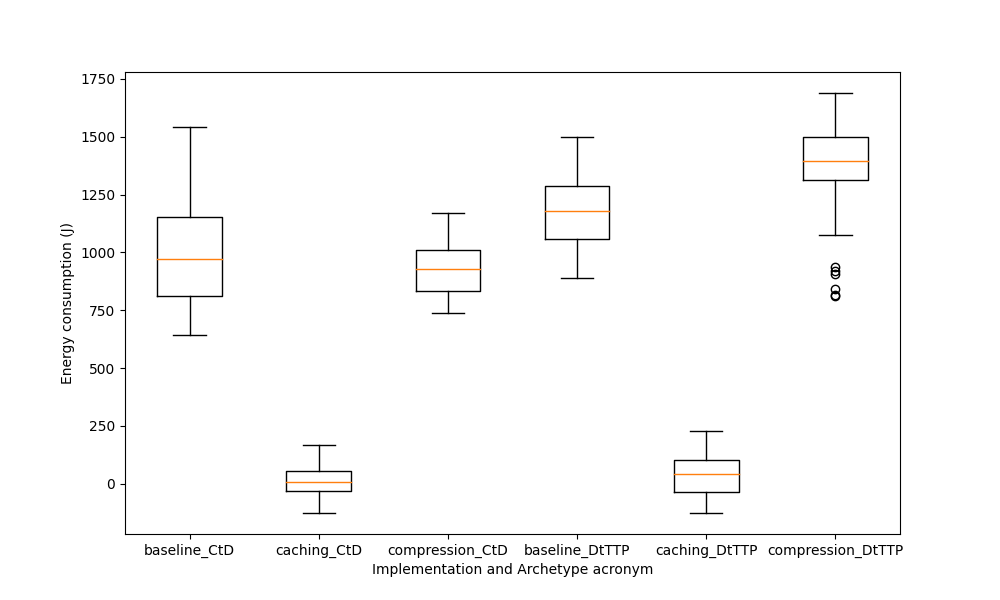
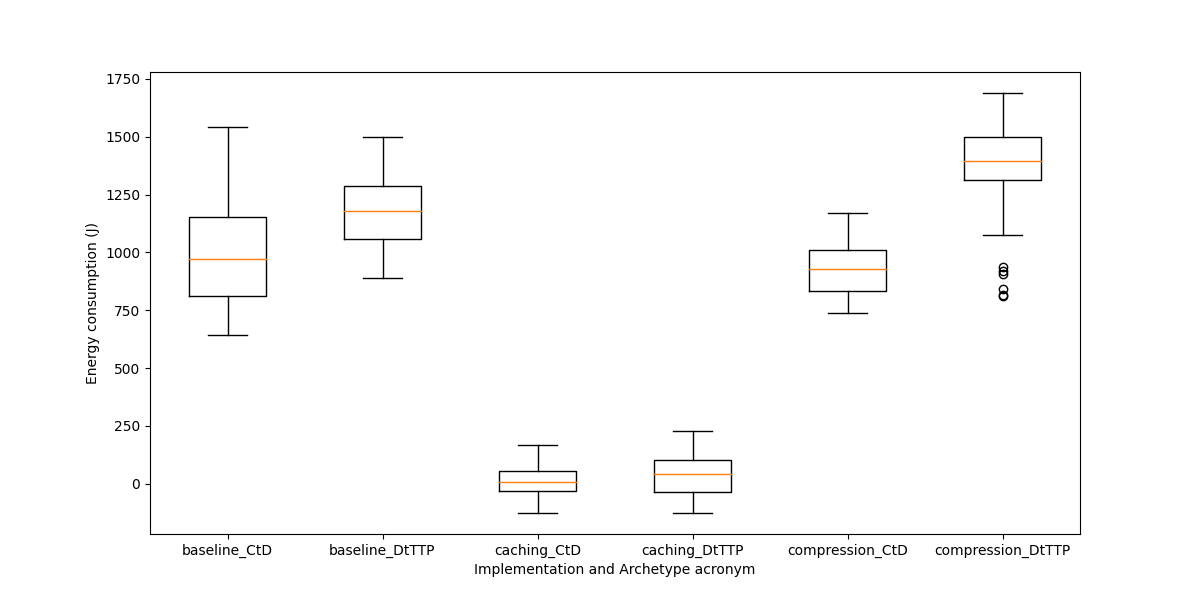
refactor: show implementations next to each other for box plot when all is selected

diff --git a/energy-efficiency/experiments/generate_box_plot.py b/energy-efficiency/experiments/generate_box_plot.py
@@ -9,8 +9,12 @@ def generate_box_plot(data_dict, archetype: str, figsize):
     data = [df["total_energy_difference"].values for df in data_dict.values()]
     labels = list(data_dict.keys())
 
+    # Modify labels if archetype is "all"
+    if archetype == "all":
+        labels = [label.replace("ComputeToData", "CtD").replace("DataThroughTTP", "DtTTP") for label in labels]
+        figsize = (12, 6)  # Wider figure size for "all" option
+
     # Generate box plot for the column
-    # Set the x and y sizes
     plt.figure(figsize=figsize)
     plt.boxplot(data, labels=labels)
     # No title is set now, since it is added in thesis directly
@@ -36,16 +40,17 @@ if __name__ == "__main__":
 
     # If all is selected, use all archetypes and set different figsize
     archetypes = ["ComputeToData", "DataThroughTTP"] if args.archetype == "all" else [args.archetype]
-    figsize = (10, 6) if args.archetype == "all" else (6, 6)
+    figsize = (12, 6) if args.archetype == "all" else (6, 6)
     # Set archetype acronyms
     archetype_acronyms = {
         "ComputeToData": "CtD", 
         "DataThroughTTP": "DtTTP"
     }
 
-    # Load the data for each prefix and archetype
-    for archetype in archetypes:
-        for prefix in prefixes:
+    # Load the data for each prefix and archetype (do prefix as the parent loop 
+    # to ensure implementations are shown next to each other)
+    for prefix in prefixes:
+        for archetype in archetypes:
             df, exp_dirs = utils.load_experiment_results(prefix, archetype)
             if not df.empty:
                 data_dict[f"{prefix}_{archetype_acronyms[archetype]}"] = df
